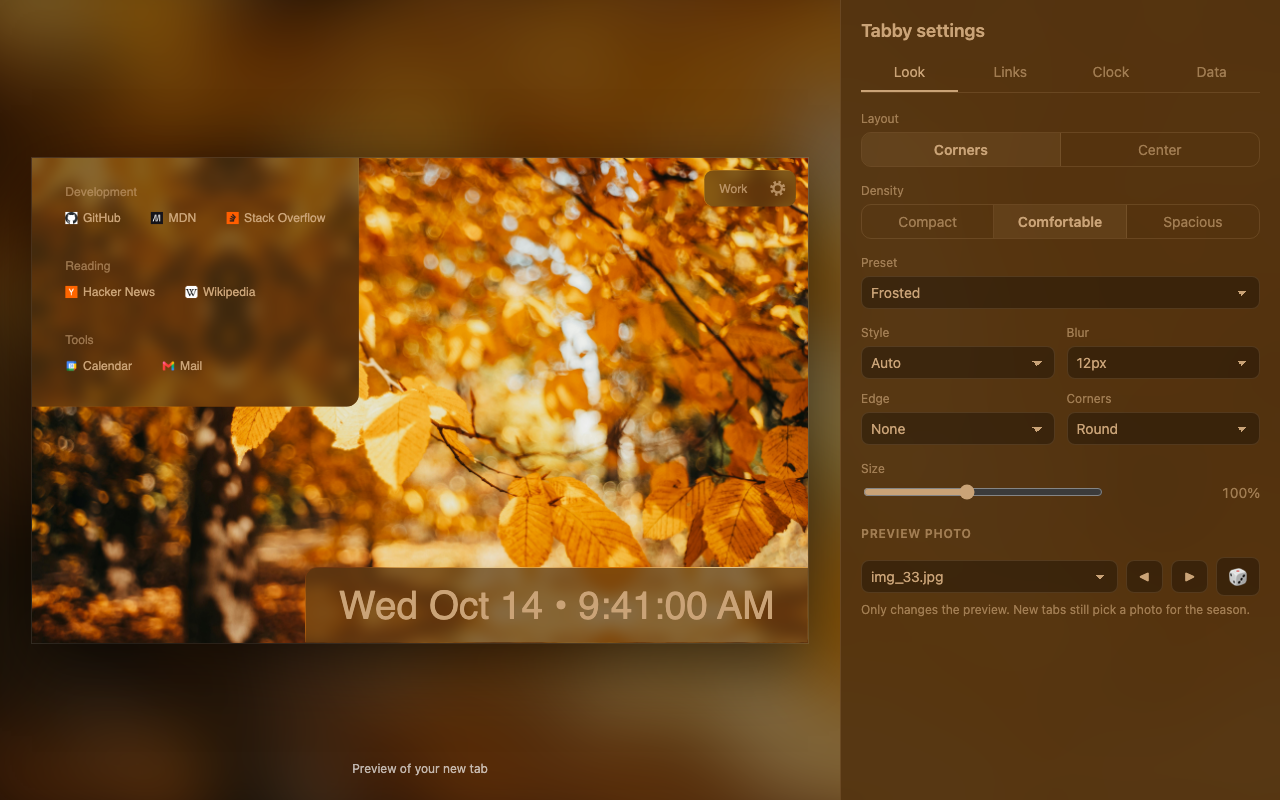
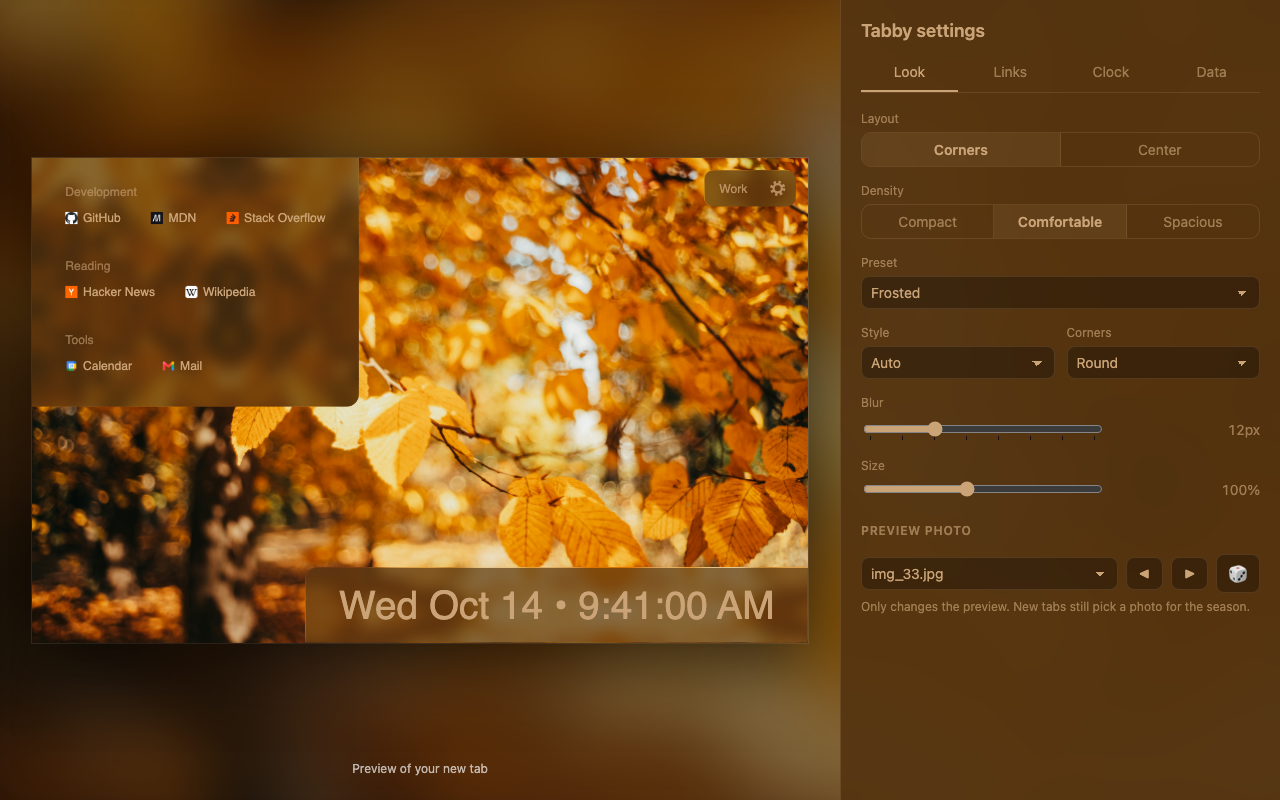
Drop the edge outline, and make Blur a slider
Panels no longer get an outline, so the Edge setting goes, along with
the line variables, the divider under the Center clock, and the edge
values in presets; a saved edge is dropped on load. Every preset stays
distinct by style, blur and corners.

Blur becomes a slider with tick marks that steps through the same values
the dropdown offered (none, 6, 12, 18, 24, 36, 48, 72px). They aren't
evenly spaced, so the slider moves by index into LOOK_BLURS; a blur
saved off the list shows at the nearest stop.

Regenerates the store screenshots.

diff --git a/options.js b/options.js
@@ -708,8 +708,6 @@ async function importAllData(data) {
 // ---- Look ----
 
 const STYLE_LABELS = { auto: "Auto", dark: "Dark", light: "Light", system: "System" };
-const EDGE_LABELS = { none: "None", line: "Line" };
-const BLURS_PX = [0, 6, 12, 18, 24, 36, 48, 72];
 const CORNERS = [
   [0, "Square"],
   [0.25, "Slight"],
@@ -733,7 +731,7 @@ const fillSelect = (select, entries) => {
 
 const matchingPreset = (look) =>
   LOOK_PRESETS.find((preset) =>
-    ["style", "blur", "edge", "corners"].every((key) => preset[key] === look[key]),
+    ["style", "blur", "corners"].every((key) => preset[key] === look[key]),
   );
 
 function renderLook() {
@@ -746,8 +744,13 @@ function renderLook() {
   });
   document.getElementById("look-preset").value = matchingPreset(look)?.name ?? CUSTOM_PRESET;
   document.getElementById("look-style").value = look.style;
-  document.getElementById("look-blur").value = look.blur;
-  document.getElementById("look-edge").value = look.edge;
+  // A blur saved off the list (from an older version) shows at the nearest stop
+  const blurIndex = LOOK_BLURS.reduce(
+    (best, px, i) => (Math.abs(px - look.blur) < Math.abs(LOOK_BLURS[best] - look.blur) ? i : best),
+    0,
+  );
+  document.getElementById("look-blur").value = blurIndex;
+  document.getElementById("look-blur-value").textContent = look.blur ? `${look.blur}px` : "None";
   document.getElementById("look-corners").value = look.corners;
   applyDrawerTheme();
 }
@@ -764,8 +767,11 @@ function setupLook() {
     ...LOOK_PRESETS.map((preset) => [preset.name, preset.name]),
   ]);
   fillSelect(document.getElementById("look-style"), LOOK_STYLES.map((s) => [s, STYLE_LABELS[s]]));
-  fillSelect(document.getElementById("look-blur"), BLURS_PX.map((b) => [b, b ? `${b}px` : "None"]));
-  fillSelect(document.getElementById("look-edge"), LOOK_EDGES.map((e) => [e, EDGE_LABELS[e]]));
+  const blurSlider = document.getElementById("look-blur");
+  blurSlider.max = LOOK_BLURS.length - 1;
+  document.getElementById("look-blur-stops").innerHTML = LOOK_BLURS.map(
+    (_, i) => `<option value="${i}"></option>`,
+  ).join("");
   fillSelect(document.getElementById("look-corners"), CORNERS);
 
   document.getElementById("look-layout").addEventListener("click", (e) => {
@@ -785,11 +791,9 @@ function setupLook() {
   document.getElementById("look-style").addEventListener("change", (e) =>
     updateLook({ style: e.target.value }),
   );
-  document.getElementById("look-blur").addEventListener("change", (e) =>
-    updateLook({ blur: Number(e.target.value) }),
-  );
-  document.getElementById("look-edge").addEventListener("change", (e) =>
-    updateLook({ edge: e.target.value }),
+  // Debounced while dragging, like the size slider
+  blurSlider.addEventListener("input", (e) =>
+    updateLook({ blur: LOOK_BLURS[Number(e.target.value)] }, { debounce: true }),
   );
   document.getElementById("look-corners").addEventListener("change", (e) =>
     updateLook({ corners: Number(e.target.value) }),

diff --git a/render.js b/render.js
@@ -262,21 +262,22 @@ async function showBackground(imageUrl, look) {
 // Look settings: how the panels sit over the photo. corners is in em, so it
 // scales with the panel.
 const LOOK_STYLES = ["auto", "dark", "light", "system"];
-const LOOK_EDGES = ["none", "line"];
 // How much room the panels give their content: link padding, space between
 // link groups, and the clock's padding
 const LOOK_DENSITIES = ["compact", "comfortable", "spacious"];
 const LOOK_LAYOUTS = ["corners", "center"];
+// Blur choices in px; the settings slider steps through these
+const LOOK_BLURS = [0, 6, 12, 18, 24, 36, 48, 72];
 const LOOK_PRESETS = [
-  { name: "Clear glass", style: "auto", blur: 6, edge: "line", corners: 0.75 },
-  { name: "Frosted", style: "auto", blur: 12, edge: "none", corners: 1 },
-  { name: "Heavy frost", style: "auto", blur: 24, edge: "none", corners: 1 },
-  { name: "Smoked", style: "dark", blur: 12, edge: "none", corners: 0.75 },
-  { name: "Tinted", style: "dark", blur: 18, edge: "line", corners: 1.5 },
-  { name: "Milk glass", style: "light", blur: 18, edge: "line", corners: 1 },
-  { name: "Square", style: "auto", blur: 6, edge: "none", corners: 0 },
-  { name: "Pill", style: "auto", blur: 12, edge: "line", corners: 2 },
-  { name: "Follow system", style: "system", blur: 12, edge: "line", corners: 1 },
+  { name: "Clear glass", style: "auto", blur: 6, corners: 0.75 },
+  { name: "Frosted", style: "auto", blur: 12, corners: 1 },
+  { name: "Heavy frost", style: "auto", blur: 24, corners: 1 },
+  { name: "Smoked", style: "dark", blur: 12, corners: 0.75 },
+  { name: "Tinted", style: "dark", blur: 18, corners: 1.5 },
+  { name: "Milk glass", style: "light", blur: 18, corners: 1 },
+  { name: "Square", style: "auto", blur: 6, corners: 0 },
+  { name: "Pill", style: "auto", blur: 12, corners: 2 },
+  { name: "Follow system", style: "system", blur: 12, corners: 1 },
 ];
 // Relative luminance above this means the photo is bright enough that a
 // light panel with dark text reads better than the usual dark panel
@@ -285,7 +286,6 @@ const LIGHT_PANEL_THRESHOLD = 0.45;
 // dark panels, toward white for light ones
 const PANEL_TONE = { dark: -50, light: 60 };
 const PANEL_ALPHA = "aa";
-const LINE_STRENGTH = "45%";
 
 const systemDark = window.matchMedia("(prefers-color-scheme: dark)");
 
@@ -327,10 +327,4 @@ function applyLook(look, rgb) {
   root.setProperty("--text", colors.text);
   root.setProperty("--panel-blur", `${look.blur}px`);
   root.setProperty("--panel-radius", `${look.corners}em`);
-  root.setProperty(
-    "--panel-line-color",
-    look.edge.endsWith("line")
-      ? `color-mix(in srgb, var(--text) ${LINE_STRENGTH}, transparent)`
-      : "transparent",
-  );
 }

diff --git a/panels.css b/panels.css
@@ -11,9 +11,6 @@
   /* Look settings; render.js's applyLook overrides these */
   --panel-radius: 1em;
   --panel-blur: 0px;
-  --panel-line-color: transparent;
-  --panel-line-width: 1.5px;
-  --panel-line: inset 0 0 0 var(--panel-line-width) var(--panel-line-color);
 }
 
 body {
@@ -57,7 +54,6 @@ body.no-favicons a.link .favicon {
   /* box-shadow: 0 0 1em #000; */
   border-radius: var(--panel-radius);
   backdrop-filter: blur(var(--panel-blur));
-  box-shadow: var(--panel-line);
   padding: calc(1.75rem * var(--density, 1));
   max-height: 100%;
   overflow: auto;
@@ -171,15 +167,14 @@ body[data-layout="center"] {
     border-radius: var(--panel-radius);
     background: var(--panel-background);
     backdrop-filter: blur(var(--panel-blur));
-    box-shadow: var(--panel-line);
   }
 
   & .stack > .panel {
-    /* relative, not static, so the clock's divider positions against it */
+    /* in the column's flow instead of Corners' fixed positions; relative so
+       the footer can reset its corner offsets (see .top-controls below) */
     position: relative;
     background: none;
     backdrop-filter: none;
-    box-shadow: none;
     border-radius: 0;
     max-height: none;
     overflow: visible;
@@ -209,18 +204,6 @@ body[data-layout="center"] {
       display: flex;
       flex-direction: column;
       align-items: center;
-    }
-
-    /* Divider between clock and links, inset by the clock's side padding;
-       it follows the edge setting, so it's invisible with no outline */
-    &::after {
-      content: "";
-      position: absolute;
-      left: calc(var(--clock-pad-x) * var(--density, 1));
-      right: calc(var(--clock-pad-x) * var(--density, 1));
-      bottom: 0;
-      height: var(--panel-line-width);
-      background: var(--panel-line-color);
     }
   }
 

diff --git a/options.html b/options.html
@@ -650,16 +650,18 @@
               <select id="look-style"></select>
             </div>
             <div class="field">
-              <label for="look-blur">Blur</label>
-              <select id="look-blur"></select>
-            </div>
-            <div class="field">
-              <label for="look-edge">Edge</label>
-              <select id="look-edge"></select>
-            </div>
-            <div class="field">
               <label for="look-corners">Corners</label>
               <select id="look-corners"></select>
+            </div>
+          </div>
+
+          <div class="field">
+            <label for="look-blur">Blur</label>
+            <div class="field-row">
+              <!-- steps through LOOK_BLURS by index, since the px values aren't evenly spaced -->
+              <input type="range" id="look-blur" min="0" step="1" list="look-blur-stops" />
+              <datalist id="look-blur-stops"></datalist>
+              <span class="value" id="look-blur-value"></span>
             </div>
           </div>
 

diff --git a/storage.js b/storage.js
@@ -29,7 +29,6 @@ const defaultSettings = {
     layout: "corners",
     style: "auto",
     blur: 12,
-    edge: "none",
     corners: 1,
     density: "comfortable",
   },
@@ -98,8 +97,9 @@ const backfillSettings = (meta) => {
   // Backfill settings added after the meta was first written; look is merged
   // a level deeper so newly added look fields get defaults too
   const { linksScale, clockScale, ...current } = stored;
-  // Tone was a look setting briefly; panels always use the style's tone now
-  const { tone, ...storedLook } = stored.look ?? {};
+  // Tone and edge were look settings briefly; panels always use the
+  // style's tone and have no outline now
+  const { tone, edge, ...storedLook } = stored.look ?? {};
   meta.settings = {
     ...defaultSettings,
     ...current,
